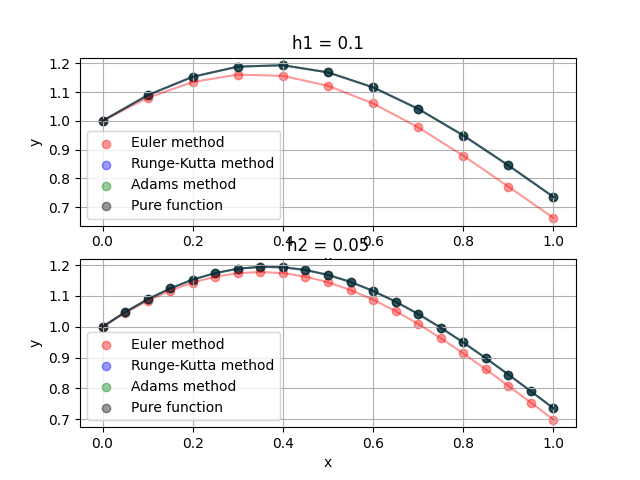
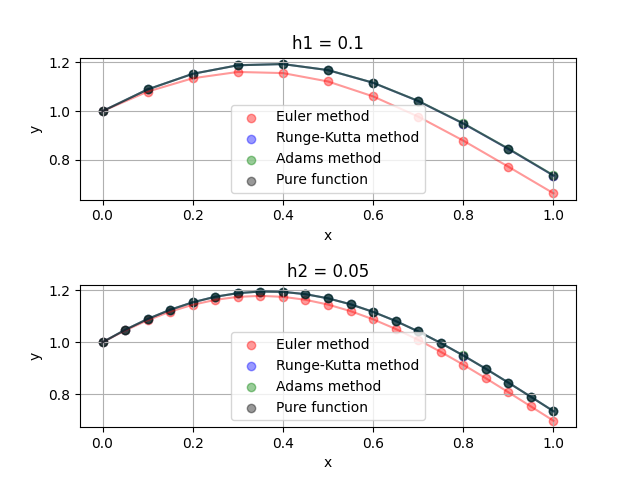
Fix appereance

diff --git a/Lab4/NM_4_1.py b/Lab4/NM_4_1.py
@@ -47,7 +47,7 @@ def euler(f, a, b, h, y0, y_der):
     return x, y
 
 
-def rungeKut(f, a, b, h, y0, y_der):
+def rungeKutt(f, a, b, h, y0, y_der):
     n = int((b - a) / h)
     x = [i for i in np.arange(a, b + h, h)]
     y = [y0]
@@ -85,20 +85,31 @@ def adams(f, x, y, k, h):
     return x, y
 
 
-def rungeRobert(dict_):
-
+def rungeRomberg(dict_):
     k = dict_[0]['h'] / dict_[1]['h']
-    euler = []
-    for i in range(len(dict_[0]['Euler']['y'])):
-        euler.append(round(abs(dict_[0]['Euler']['y'][i] - dict_[1]['Euler']['y'][i]) / (k ** 1 - 1), 6))
+    Y1 = [yi for xi, yi in zip(dict_[0]['Euler']['x'], dict_[0]['Euler']['y']) if xi in dict_[1]['Euler']['x']]
+    Y2 = [yi for xi, yi in zip(dict_[1]['Euler']['x'], dict_[1]['Euler']['y']) if xi in dict_[0]['Euler']['x']]
+    euler = [y1 + (y2 - y1) / (k ** 2 - 1) for y1, y2 in zip(Y1, Y2)]
+    X_ex = [xi for xi in dict_[0]['Euler']['x'] if xi in dict_[1]['Euler']['x']]
+    Y_ex = [pureFunction(i) for i in X_ex]
+    for i in range(len(euler)):
+        euler[i] = abs(euler[i] - Y_ex[i])
 
-    runge = []
-    for i in range(len(dict_[0]['Runge']['y'])):
-        runge.append(round(abs(dict_[0]['Runge']['y'][i] - dict_[1]['Runge']['y'][i]) / (k ** 4 - 1), 6))
+    Y1 = [yi for xi, yi in zip(dict_[0]['Runge']['x'], dict_[0]['Runge']['y']) if xi in dict_[1]['Runge']['x']]
+    Y2 = [yi for xi, yi in zip(dict_[1]['Runge']['x'], dict_[1]['Runge']['y']) if xi in dict_[0]['Runge']['x']]
+    runge = [y1 + (y2 - y1) / (k ** 2 - 1) for y1, y2 in zip(Y1, Y2)]
+    X_ex = [xi for xi in dict_[0]['Runge']['x'] if xi in dict_[1]['Runge']['x']]
+    Y_ex = [pureFunction(i) for i in X_ex]
+    for i in range(len(runge)):
+        runge[i] = abs(runge[i] - Y_ex[i])
 
-    adams = []
-    for i in range(len(dict_[0]['Adams']['y'])):
-        adams.append(round(abs(dict_[0]['Adams']['y'][i] - dict_[1]['Adams']['y'][i]) / (k ** 4 - 1), 6))
+    Y1 = [yi for xi, yi in zip(dict_[0]['Adams']['x'], dict_[0]['Adams']['y']) if xi in dict_[1]['Adams']['x']]
+    Y2 = [yi for xi, yi in zip(dict_[1]['Adams']['x'], dict_[1]['Adams']['y']) if xi in dict_[0]['Adams']['x']]
+    adams = [y1 + (y2 - y1) / (k ** 2 - 1) for y1, y2 in zip(Y1, Y2)]
+    X_ex = [xi for xi in dict_[0]['Adams']['x'] if xi in dict_[1]['Adams']['x']]
+    Y_ex = [pureFunction(i) for i in X_ex]
+    for i in range(len(adams)):
+        adams[i] = abs(adams[i] - Y_ex[i])
 
     return {'Euler': euler, 'Runge': runge, 'Adams': adams}
 
@@ -107,6 +118,7 @@ def show(res, pure, h):
     n = len(res)
     for i in range(n):
         plt.subplot(n, 1, i + 1)
+        plt.subplots_adjust(wspace=0.1, hspace=0.6)
         plt.scatter(res[i]["Euler"]["x"], res[i]["Euler"]["y"], color='r', alpha=0.4, label='Euler method')
         plt.plot(res[i]["Euler"]["x"], res[i]["Euler"]["y"], color='r', alpha=0.4)
         plt.scatter(res[i]["Runge"]["x"], res[i]["Runge"]["y"], color='b', alpha=0.4, label='Runge-Kutta method')
@@ -136,25 +148,30 @@ if __name__ == '__main__':
     pure = []
     steps = [h, h/2]
     for h in steps:
+        print(f"Current step: {h}")
         print("Euler method:")
         x_eul, y_eul = euler(cauchyProblem, a, b, h, y0, y_der)
         for x, y in zip(x_eul, y_eul):
             print(f'x = {round(x, 4)}, y = {y}')
+        print()
 
         print("Runge-Kutta method:")
-        x_rung, y_rung, k_rung = rungeKut(cauchyProblem, a, b, h, y0, y_der)
+        x_rung, y_rung, k_rung = rungeKutt(cauchyProblem, a, b, h, y0, y_der)
         for x, y in zip(x_rung, y_rung):
             print(f'x = {round(x, 4)}, y = {y}')
+        print()
 
         print("Adams method:")
         x_ad, y_ad = adams(cauchyProblem, x_rung, y_rung, k_rung, h)
         for x, y in zip(x_ad, y_ad):
             print(f'x = {round(x, 4)}, y = {y}')
+        print()
 
         print("Analytical method:")
         x_anal, y_anal = analytical(pureFunction, a, b, h)
         for x, y in zip(x_anal, y_anal):
             print(f'x = {round(x, 4)}, y = {y}')
+        print()
 
         pure.append((x_anal, y_anal))
         res.append({
@@ -164,12 +181,9 @@ if __name__ == '__main__':
                     "Adams": {'x': x_ad, 'y': y_ad},
                     })
 
-    err = rungeRobert(res)
+    err = rungeRomberg(res)
     print("Euler error: {0}".format(err['Euler']))
-    print("SSE of Euler {}".format(sse(err['Euler'], [(x - y) for x, y in zip(pure[0][1], pure[1][1])])))
     print("Runge error: {0}".format(err['Runge']))
-    print("SSE of Runge {}".format(sse(err['Runge'], [(x - y) for x, y in zip(pure[0][1], pure[1][1])])))
     print("Adams error: {0}".format(err['Adams']))
-    print("SSE of Adams {}".format(sse(err['Adams'], [(x - y) for x, y in zip(pure[0][1], pure[1][1])])))
 
     show(res, pure, steps)

diff --git a/Lab4/NM_4_2.py b/Lab4/NM_4_2.py
@@ -106,17 +106,20 @@ def show(ans, exact, h):
     n = len(ans)
     for i in range(n):
         plt.subplot(n, 1, i + 1)
+        plt.subplots_adjust(wspace=0.1, hspace=0.6)
         plt.scatter(ans[i]["Shooting"]["x"], ans[i]["Shooting"]["y"], color='r', alpha=0.4, label='Shooting method')
         plt.plot(ans[i]["Shooting"]["x"], ans[i]["Shooting"]["y"], color='r', alpha=0.4)
         plt.scatter(ans[i]["FD"]["x"], ans[i]["FD"]["y"], color='b', alpha=0.4, label='Finite difference method')
         plt.plot(ans[i]["FD"]["x"], ans[i]["FD"]["y"], color='b', alpha=0.4)
         plt.scatter(exact[i][0], exact[i][1], color='g', alpha=0.4, label='Exact solution')
         plt.plot(exact[i][0], exact[i][1], color='g', alpha=0.4)
+
         plt.legend(loc='best')
         plt.title('h{0} = '.format(i + 1) + str(h[i]))
         plt.xlabel('x')
         plt.ylabel('y')
         plt.grid(True)
+    plt.savefig('ShootAndFD.png')
     plt.show()
 
 
